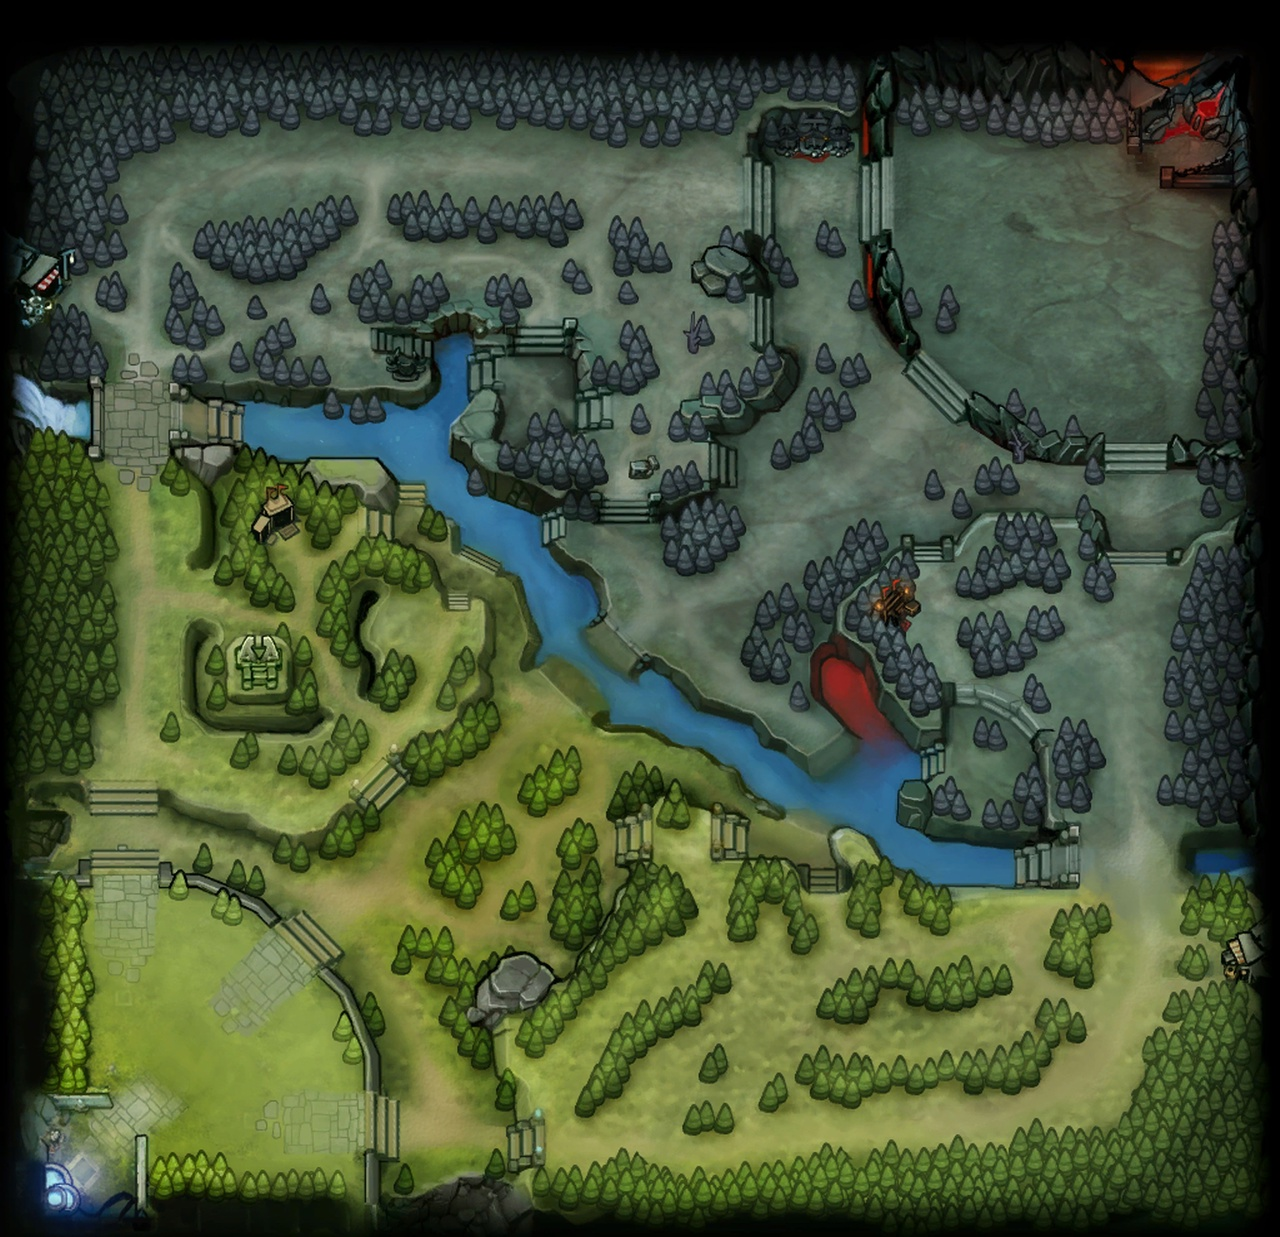
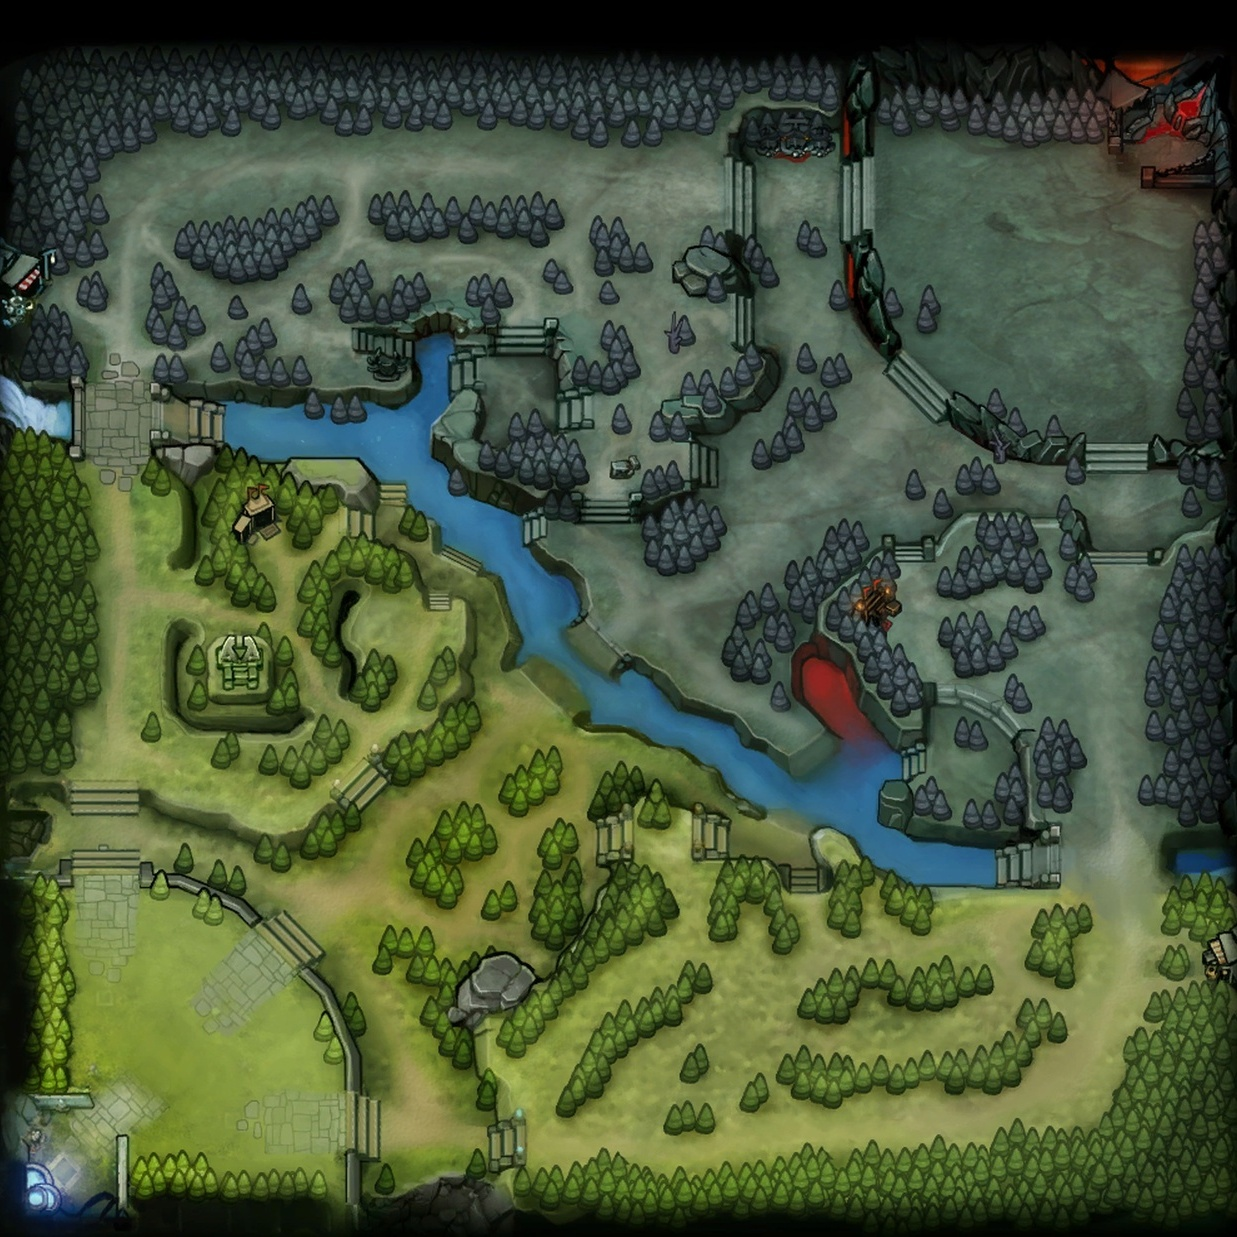
final editor

diff --git a/resources/js/canvas.js b/resources/js/canvas.js
@@ -1,9 +1,23 @@
+import './bootstrap';
 import { fabric } from "fabric";
 
 document.addEventListener('DOMContentLoaded', function() {
+
+    let vh = document.documentElement.clientHeight / 100;
+    document.querySelector('canvas').width = vh * 78;
+    document.querySelector('canvas').height = vh * 78;
+    
     let canvas = new fabric.Canvas('canvas');
-    canvas.setBackgroundImage('/images/dota.jpg', canvas.renderAll.bind(canvas));
-    let currentColor = "#000000";
+    // canvas.loadFromJSON();
+    fabric.Image.fromURL('/images/dota.jpg', function(img) {
+        img.scaleToWidth(canvas.width);
+        img.scaleToHeight(canvas.height);
+        canvas.setBackgroundImage(img);
+        canvas.requestRenderAll();
+     });
+    canvas.freeDrawingBrush.color = '#4079c2';
+    let currentColor = "#4079c2";
+    let currentWidth = 15;
 
     let tools = {
         cursor: document.querySelector('#cursor'),
@@ -14,28 +28,106 @@ document.addEventListener('DOMContentLoaded', function() {
         pencil: document.querySelector('#pencil'),
         text: document.querySelector('#text'),
         line: document.querySelector('#line'),
-        eraser: document.querySelector('#eraser'),
+        hexagon: document.querySelector('#hexagon'),
         bucket: document.querySelector('#bucket'),
         color: document.querySelector('#color'),
         remove: document.querySelector('#remove'),
         download: document.querySelector('#download'),        
-        url: document.querySelector('#url')        
+        url: document.querySelector('#url'),    
+        zoom: document.querySelector('#zoom'),
+        brushWidth: document.querySelector('#brush-width')
     };
+
+    let mainTools = document.querySelector('.toolbar .main-tools');
+    mainTools.addEventListener('click', function() {
+        if (!tools.brush.classList.contains('active')) {
+            if (!tools.brushWidth.parentNode.classList.contains('d-none')) {
+                tools.brushWidth.parentNode.classList.add('d-none')
+            }
+        } else {
+            if (tools.brushWidth.parentNode.classList.contains('d-none')) {
+                tools.brushWidth.parentNode.classList.remove('d-none')
+            }
+        }
+    });
+
+    canvas.on({
+        'mouse:down': function(options) {
+        if (options.target && tools.bucket.classList.contains('active')) {
+            if (options.target.type === "path") {
+                options.target.set("stroke", currentColor);
+            } else {
+            options.target.set("fill", currentColor).set("stroke", currentColor);        
+            }
+        }
+      }
+    });
 
     tools.cursor.addEventListener('click', function() {
         canvas.isDrawingMode = false;
+        if (!this.classList.contains('active')) {
+            this.classList.add('active');
+        }
+        if (tools.brush.classList.contains('active')) {
+            tools.brush.classList.remove('active');
+        }
+        if (tools.pencil.classList.contains('active')) {
+            tools.pencil.classList.remove('active');
+        }
+        if (tools.bucket.classList.contains('active')) {
+            tools.bucket.classList.remove('active');
+        }
+    });
+    tools.bucket.addEventListener('click', function() {
+        canvas.isDrawingMode = false;
+        if (!this.classList.contains('active')) {
+            this.classList.add('active');
+        }
+        if (tools.brush.classList.contains('active')) {
+            tools.brush.classList.remove('active');
+        }
+        if (tools.pencil.classList.contains('active')) {
+            tools.pencil.classList.remove('active');
+        }
+        if (tools.cursor.classList.contains('active')) {
+            tools.cursor.classList.remove('active');
+        }
     });
     tools.brush.addEventListener('click', function() {
         canvas.freeDrawingBrush = new fabric.PencilBrush(canvas);
-        canvas.freeDrawingBrush.width = 15;
+        canvas.freeDrawingBrush.width = currentWidth;
         canvas.freeDrawingBrush.color = currentColor;
         canvas.isDrawingMode = true;
+        if (!this.classList.contains('active')) {
+            this.classList.add('active');
+        }
+        if (tools.cursor.classList.contains('active')) {
+            tools.cursor.classList.remove('active');
+        }
+        if (tools.pencil.classList.contains('active')) {
+            tools.pencil.classList.remove('active');
+        }
+        if (tools.bucket.classList.contains('active')) {
+            tools.bucket.classList.remove('active');
+        }
     });
     tools.pencil.addEventListener('click', function() {
         canvas.freeDrawingBrush = new fabric.PencilBrush(canvas);
         canvas.freeDrawingBrush.width = 2;
         canvas.freeDrawingBrush.color = currentColor;
         canvas.isDrawingMode = true;
+        if (!this.classList.contains('active')) {
+            this.classList.add('active');
+        }
+        if (tools.cursor.classList.contains('active')) {
+            tools.cursor.classList.remove('active');
+        }
+        if (tools.brush.classList.contains('active')) {
+            tools.brush.classList.remove('active');
+        }
+        if (tools.bucket.classList.contains('active')) {
+            tools.bucket.classList.remove('active');
+        }
     });
     tools.rectangle.addEventListener('click', function() {
         let rect = new fabric.Rect({
@@ -48,9 +140,10 @@ document.addEventListener('DOMContentLoaded', function() {
             strokeWidth: 5,
                 });  
           canvas.add(rect);
+          rect.center();
     });
     tools.triangle.addEventListener('click', function() {
-        let rect = new fabric.Triangle({
+        let tri = new fabric.Triangle({
             left: 40,
             top: 40,
             width: 50,
@@ -59,7 +152,8 @@ document.addEventListener('DOMContentLoaded', function() {
             stroke: currentColor,
             strokeWidth: 5,
                 });  
-          canvas.add(rect);
+          canvas.add(tri);
+          tri.center();
     });
     tools.circle.addEventListener('click', function() {
         let circle = new fabric.Circle({
@@ -71,10 +165,20 @@ document.addEventListener('DOMContentLoaded', function() {
             strokeWidth: 5,
                 });  
           canvas.add(circle);
+          circle.center();
     });
-    tools.eraser.addEventListener('click', function() {
-        canvas.freeDrawingBrush = new fabric.EraserBrush(canvas);
-        canvas.isDrawingMode = true;
+    tools.hexagon.addEventListener('click', function() {
+        var polygon = new fabric.Polygon([
+        { x: 300, y: 150 },
+        { x: 225, y: 280 },
+        { x: 75, y: 280},
+        { x: 0, y: 150},
+        { x: 75, y: 20 },
+        { x: 225, y: 20 }], {
+            fill: currentColor
+        });
+        canvas.add(polygon);
+        polygon.center();
     });
     tools.line.addEventListener('click', function() {
         let line = new fabric.Line([250, 125, 250, 175], {
@@ -85,11 +189,12 @@ document.addEventListener('DOMContentLoaded', function() {
             evented: true,
           });
           canvas.add(line);
+          line.center();
     });
     tools.remove.addEventListener('click', function() {
         let activeObjs = canvas.getActiveObjects();
         if (activeObjs) {
-        activeObjs.forEach((el, i) => {
+        activeObjs.forEach(el => {
             canvas.remove(el);
         });
     }
@@ -100,25 +205,35 @@ document.addEventListener('DOMContentLoaded', function() {
             top: 100,
             textAlign: 'center',
             fontSize: 28,
-            fontFamily: 'Comic Sans'
-
+            fontFamily: 'Comic Sans',
+            stroke: currentColor,
+            fill: currentColor
           });
           canvas.add(text);
+          text.center();
     });
     tools.color.addEventListener('input', function() {
         let color = this.value;
-        let currentEl = canvas.getActiveObject();
-        if (currentEl) {
-        if (currentEl.type === "path") {
-            currentEl.set("stroke", color);
-            canvas.renderAll();
-        } else {
-        currentEl.set("fill", color).set("stroke", color);
+        let activeObjs = canvas.getActiveObjects();
+        if (activeObjs) {
+            activeObjs.forEach(el => {                
+                if (el.type === "path") {
+                    el.set("stroke", color);
+                } else {
+                el.set("fill", color).set("stroke", color);        
+                }
+            });
         canvas.renderAll();
-        }
     }
     currentColor = color;
-        canvas.freeDrawingBrush.color = color;
+    canvas.freeDrawingBrush.color = color;
+    });
+    tools.zoom.addEventListener('input', function() {
+        canvas.zoomToPoint(new fabric.Point(canvas.width / 2, canvas.height / 2), +this.value);
+    });
+    tools.brushWidth.addEventListener('input', function() {
+        canvas.freeDrawingBrush.width = +this.value;
+        currentWidth = +this.value;
     });
 
     tools.download.addEventListener('click', function(e) {
@@ -128,13 +243,14 @@ document.addEventListener('DOMContentLoaded', function() {
     tools.url.addEventListener('click', function(e) {
         e.preventDefault();
         copyUrl();
+        // console.log(canvas.toObject());
     });
 
     function saveImage(el) {
         let link = document.createElement('a');
         link.href = canvas.toDataURL({
             format: 'jpeg',
-            quality: 0.8
+            quality: 1
         });
         link.download = 'canvas.jpg';
         link.click();

diff --git a/resources/sass/canvas.scss b/resources/sass/canvas.scss
@@ -1,0 +1,32 @@
+@import 'app';
+
+.canvas-container {
+    margin: auto;
+}
+
+.main-tools .btn.active {
+    color: #fff;
+    background-color: #424649;
+    border-color: #424649;
+}
+
+.bi-hexagon-fill::before {
+    transform: rotate(90deg);
+}
+
+input[type="color"] {
+    -webkit-appearance: none;
+    border: 1px solid #495057;
+    width: 32px;
+    height: 32px;
+    border-radius: 50%;
+    padding: 0;
+    cursor: pointer;
+  }
+  input[type="color"]::-webkit-color-swatch-wrapper {
+    padding: 0;
+  }
+  input[type="color"]::-webkit-color-swatch {
+    border: none;
+    border-radius: 50%;
+  }

diff --git a/resources/sass/app.scss b/resources/sass/app.scss
@@ -19,12 +19,15 @@ font-family: 'Roboto', sans-serif;
     min-width: 100px;
     color: #212529;
     text-align: center;
+    border-top: none;
+    border-left: none;
     border-right: 2px solid #ccc;
     border-bottom: 2px solid #ccc;
     outline: none;
 }
 
-.btn-custom:hover {
+.btn-custom:hover,
+.btn-custom:focus {
     opacity: .85;
     color: rgba(33, 37, 41, .85);
 }

diff --git a/vite.config.js b/vite.config.js
@@ -7,6 +7,7 @@ export default defineConfig({
         laravel({
             input: [
                 'resources/sass/app.scss',
+                'resources/sass/canvas.scss',
                 'resources/js/app.js',
                 'resources/js/home.js',
                 'resources/js/canvas.js'

diff --git a/resources/sass/_variables.scss b/resources/sass/_variables.scss
@@ -2,3 +2,4 @@
 // $font-family-sans-serif: 'Nunito', sans-serif;
 // $font-size-base: 0.9rem;
 // $line-height-base: 1.6;
+$form-range-thumb-bg: #4079c2;

diff --git a/resources/views/canvas.blade.php b/resources/views/canvas.blade.php
@@ -21,7 +21,7 @@
         <link rel="shortcut icon" href="{{ config('app.url', '') }}/images/{{ config('app.app_favicon', 'favicon.png') }}" type="image/x-icon">
 
         <!-- Styles -->
-        @vite(['resources/sass/app.scss'])
+        @vite(['resources/sass/canvas.scss'])
     </head>
     <body>
     <header>
@@ -58,39 +58,47 @@
             <div class="row h-100">
                 <div class="col-12 col-md-2 d-flex justify-content-center">
                     <div class="toolbar text-center m-auto">
-                    <div class="border border-secosubtle rounded-2 d-inline-block">
-                        <div class="btn-group" role="group" aria-label="Basic example">
-                            <button id="cursor" type="button" class="btn btn-dark"><i class="bi bi-cursor-fill"></i></button>
-                            <button id="pencil" type="button" class="btn btn-dark"><i class="bi bi-pencil-fill"></i></button>
+                    <div class="border border-secosubtle rounded-2 d-inline-block main-tools">
+                        <div class="btn-group" role="group" aria-label="Basic example" style="border-bottom-left-radius: 0; border-bottom-right-radius: 0;">
+                            <button title="Трансформирование" id="cursor" type="button" class="btn btn-dark active" style="border-bottom-left-radius: 0;"><i class="bi bi-cursor-fill"></i></button>
+                            <button title="Карандаш" id="pencil" type="button" class="btn btn-dark" style="border-bottom-right-radius: 0;"><i class="bi bi-pencil-fill"></i></button>
                         </div><br>
                         <div class="btn-group" role="group" aria-label="Basic example">
-                            <button id="brush" type="button" class="btn btn-dark rounded-0"><i
-                                    class="bi bi-brush-fill"></i></button>
-                            <button id="eraser" type="button" class="btn btn-dark rounded-0"><i
-                                    class="bi bi-eraser-fill"></i></button>
+                            <button title="Кисть" id="brush" type="button" class="btn btn-dark rounded-0"><i
+                                    class="bi bi-brush-fill"></i></button>    
+                            
+                            <button title="Заливка" id="bucket" type="button" class="btn btn-dark rounded-0"><i
+                                    class="bi bi-paint-bucket"></i></button>       
                         </div><br>
                         <div class="btn-group" role="group" aria-label="Basic example">
-                            <button id="bucket" type="button" class="btn btn-dark rounded-0"><i
-                                    class="bi bi-paint-bucket"></i></button>
-                            <button id="line" type="button" class="btn btn-dark rounded-0"><i class="bi bi-slash-lg"></i></button>
+                            <button title="Текст" id="text" type="button" class="btn btn-dark rounded-0"><i class="bi bi-fonts"></i></button> 
+                            <button title="Прямая линия" id="line" type="button" class="btn btn-dark rounded-0"><i class="bi bi-slash-lg"></i></button>
                         </div><br>
                         <div class="btn-group" role="group" aria-label="Basic example">
-                            <button id="text" type="button" class="btn btn-dark rounded-0"><i class="bi bi-fonts"></i></button>
-                            <button id="rectangle" type="button" class="btn btn-dark rounded-0"><i
+                            <button title="Шестиугольник" id="hexagon" type="button" class="btn btn-dark rounded-0"><i
+                                    class="bi bi-hexagon-fill"></i></button>
+                            <button title="Прямоугольник" id="rectangle" type="button" class="btn btn-dark rounded-0"><i
                                     class="bi bi-square-fill"></i></button>
                         </div><br>
-                        <div class="btn-group" role="group" aria-label="Basic example">
-                            <button id="triangle" type="button" class="btn btn-dark"><i class="bi bi-triangle-fill"></i></button>
-                            <button id="circle" type="button" class="btn btn-dark"><i class="bi bi-circle-fill"></i></button>
+                        <div class="btn-group" role="group" aria-label="Basic example" style="border-top-left-radius: 0; border-top-right-radius: 0;">
+                            <button title="Треугольник" id="triangle" type="button" class="btn btn-dark" style="border-top-left-radius: 0;"><i class="bi bi-triangle-fill"></i></button>
+                            <button title="Круг" id="circle" type="button" class="btn btn-dark" style="border-top-right-radius: 0;"><i class="bi bi-circle-fill"></i></button>
                         </div>
                     </div><br>
-                    <input style="margin-left: 10;" type="color" id="color"><br>
-                    <button type="button" id="remove">Удалить объект</button>
+                    <input class="mt-2" type="color" id="color" value="#4079c2"><br>
+                    <label for="zoom" class="form-label mb-0"><small>Масштаб</small></label><br>
+                    <input type="range" class="form-range w-100" id="zoom" min="1" max="5" value="1" step="0.1" style="max-width: 122px;">
+                    <div class="text-center brush-width d-none">
+                    <label for="brush-width" class="form-label mb-0"><small>Ширина кисти</small></label><br>
+                    <input type="range" class="form-range w-100" id="brush-width" min="5" max="50" value="15" step="1" style="max-width: 122px;">
+                    </div>
+                    <button class="nav-link btn-custom p-2" type="button" id="remove"><small>Удалить объект</small></button>
                     </div>
                 </div>
                 <div class="col-12 col-md-8 d-flex">
-                    <canvas id="canvas" class="m-auto" width="500" height="500">
+                    <canvas id="canvas"></canvas>
                 </div>
+                <div class="col-12 col-md-2"></div>
                 <div class="modal" tabindex="-1">
                     <div class="modal-dialog">
                         <div class="modal-content">
